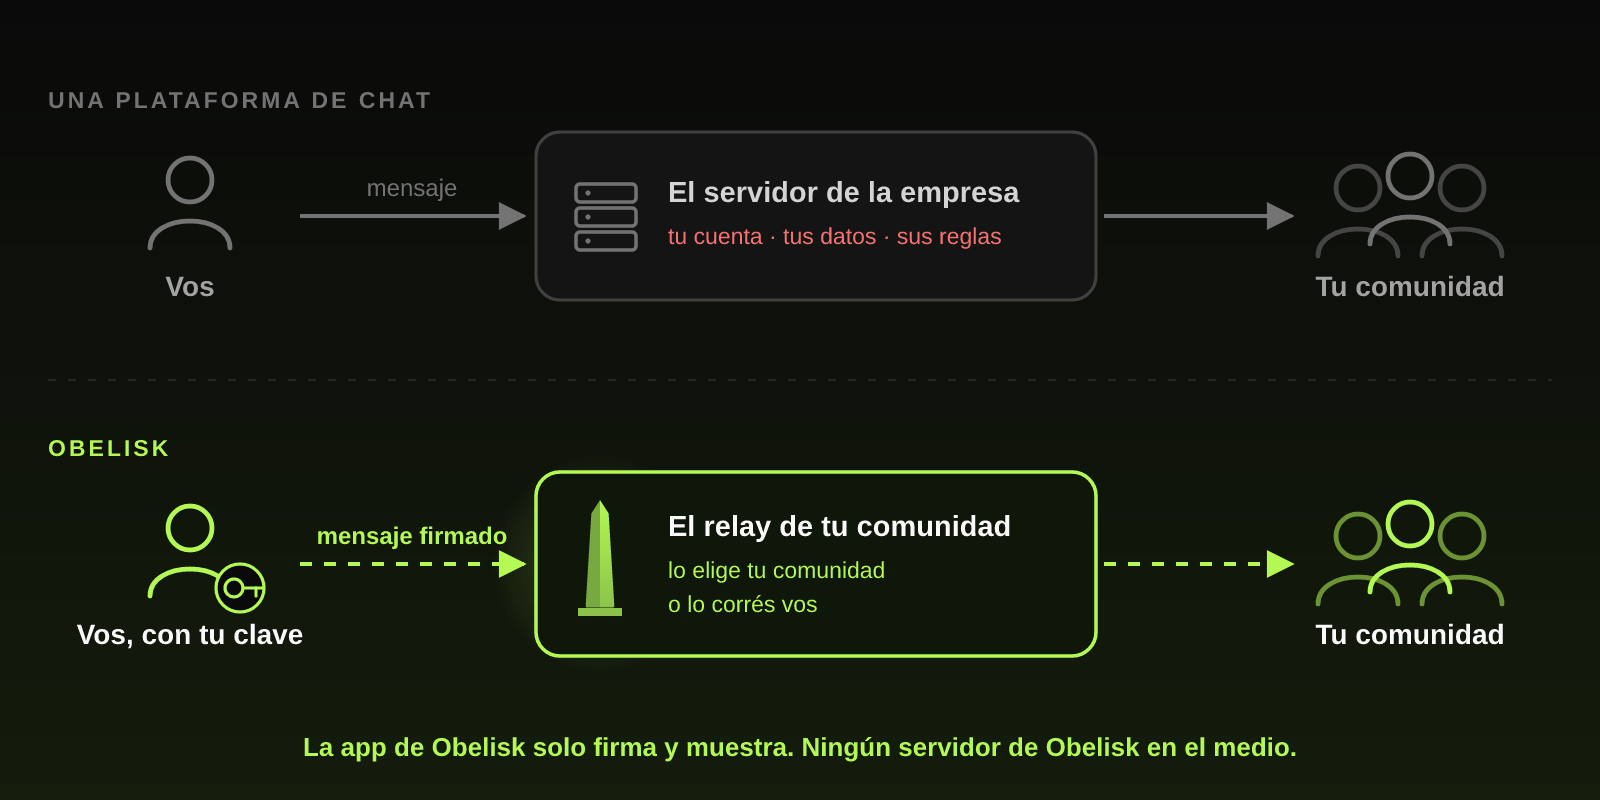
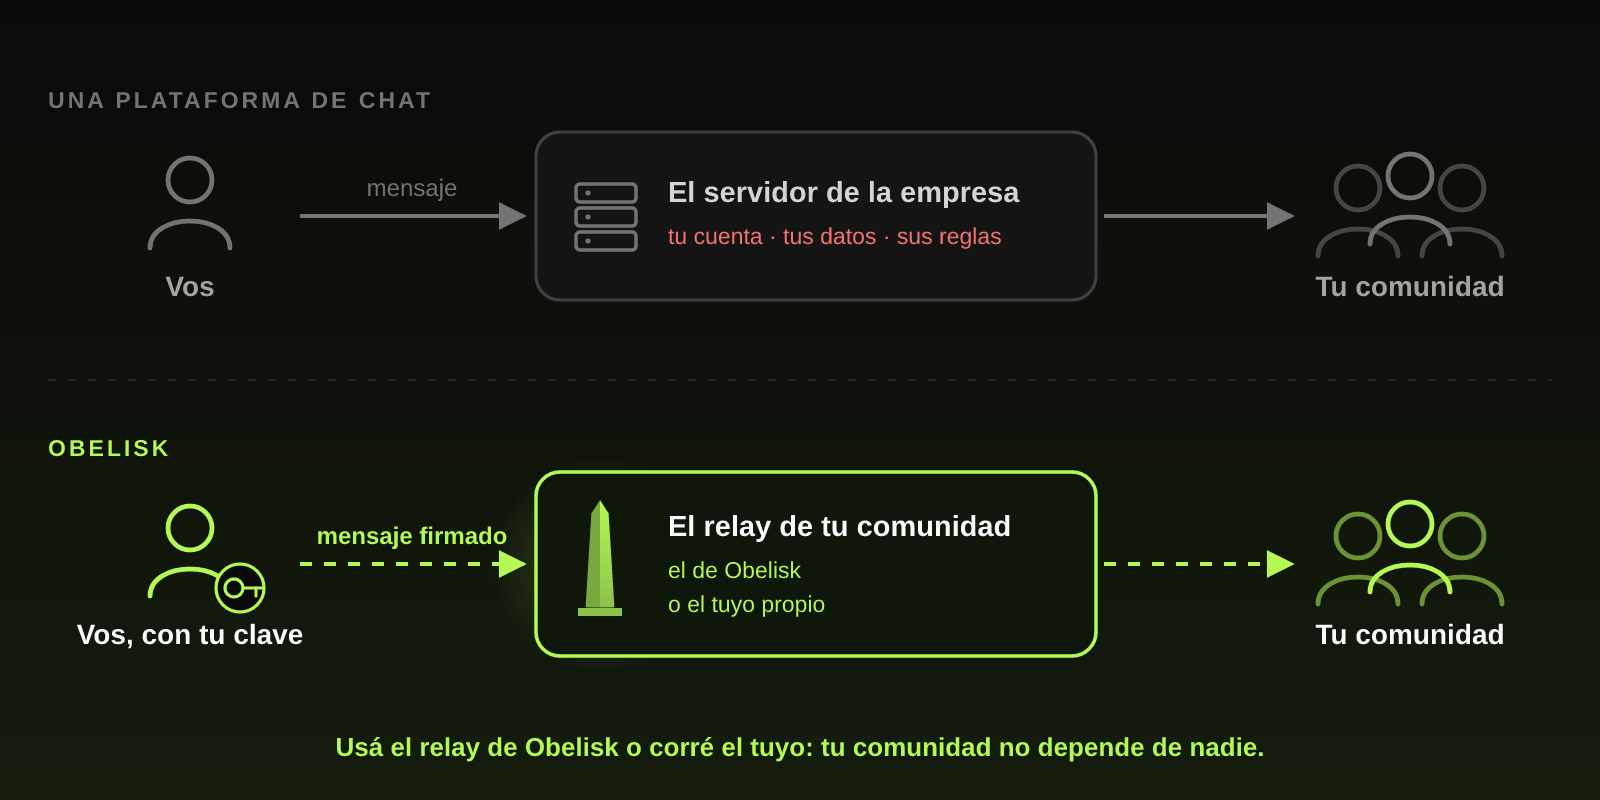
Guides: How Obelisk works says the relay is Obelisk's or your own
There is an Obelisk relay (public.obelisk.ar); the point is that anyone can
run their own. 'No Obelisk server in between' becomes 'Use Obelisk's relay
or run your own: your community depends on no one', in en/es/pt, with the
snapshots regenerated.

Changed region(s): [[0.1875, 0.9062, 0.8125, 0.9688], [0.4062, 0.6875, 0.5625, 0.7812]]

diff --git a/src/assets/illustrations/guides/heroes/HowObeliskWorksHero.tsx b/src/assets/illustrations/guides/heroes/HowObeliskWorksHero.tsx
@@ -9,9 +9,8 @@ import KeyGlyph from '../how-it-works/KeyGlyph';
  * both rows: you, the thing in the middle, your community. On a usual chat
  * platform the middle is the company's server, holding your account, your
  * data and its rules. In Obelisk you sign with your own key and the middle is
- * your community's relay (the NIP-29 relay, drawn as the Obelisco), which the
- * community picks or runs. The app only signs and shows: no Obelisk server in
- * between. The architecture's details are the guide's text.
+ * your community's relay (the NIP-29 relay, drawn as the Obelisco): Obelisk's
+ * public one or your own. The app only signs and shows. The architecture's details are the guide's text.
  */
 export default function HowObeliskWorksHero() {
   const t = useTranslations();

diff --git a/tests/assets/illustrations/guides/heroes/HowObeliskWorksHero.test.tsx b/tests/assets/illustrations/guides/heroes/HowObeliskWorksHero.test.tsx
@@ -25,11 +25,12 @@ describe('HowObeliskWorksHero', () => {
     expect(text).toContain("Your community's relay");
   });
 
-  it('says there is no Obelisk server in between', () => {
+  it("says the relay can be Obelisk's or your own", () => {
     const text = render(<HowObeliskWorksHero />).container.textContent ?? '';
     expect(text).not.toMatch(OLD_LABELS);
-    expect(text).toContain('There is no Obelisk server in between.');
-    expect(text).toContain('No Obelisk server in between.');
+    expect(text).toContain("Obelisk's relay");
+    expect(text).toContain('or your own');
+    expect(text).toContain("Use Obelisk's relay or run your own");
   });
 
   it('draws its labels in the page language', () => {
